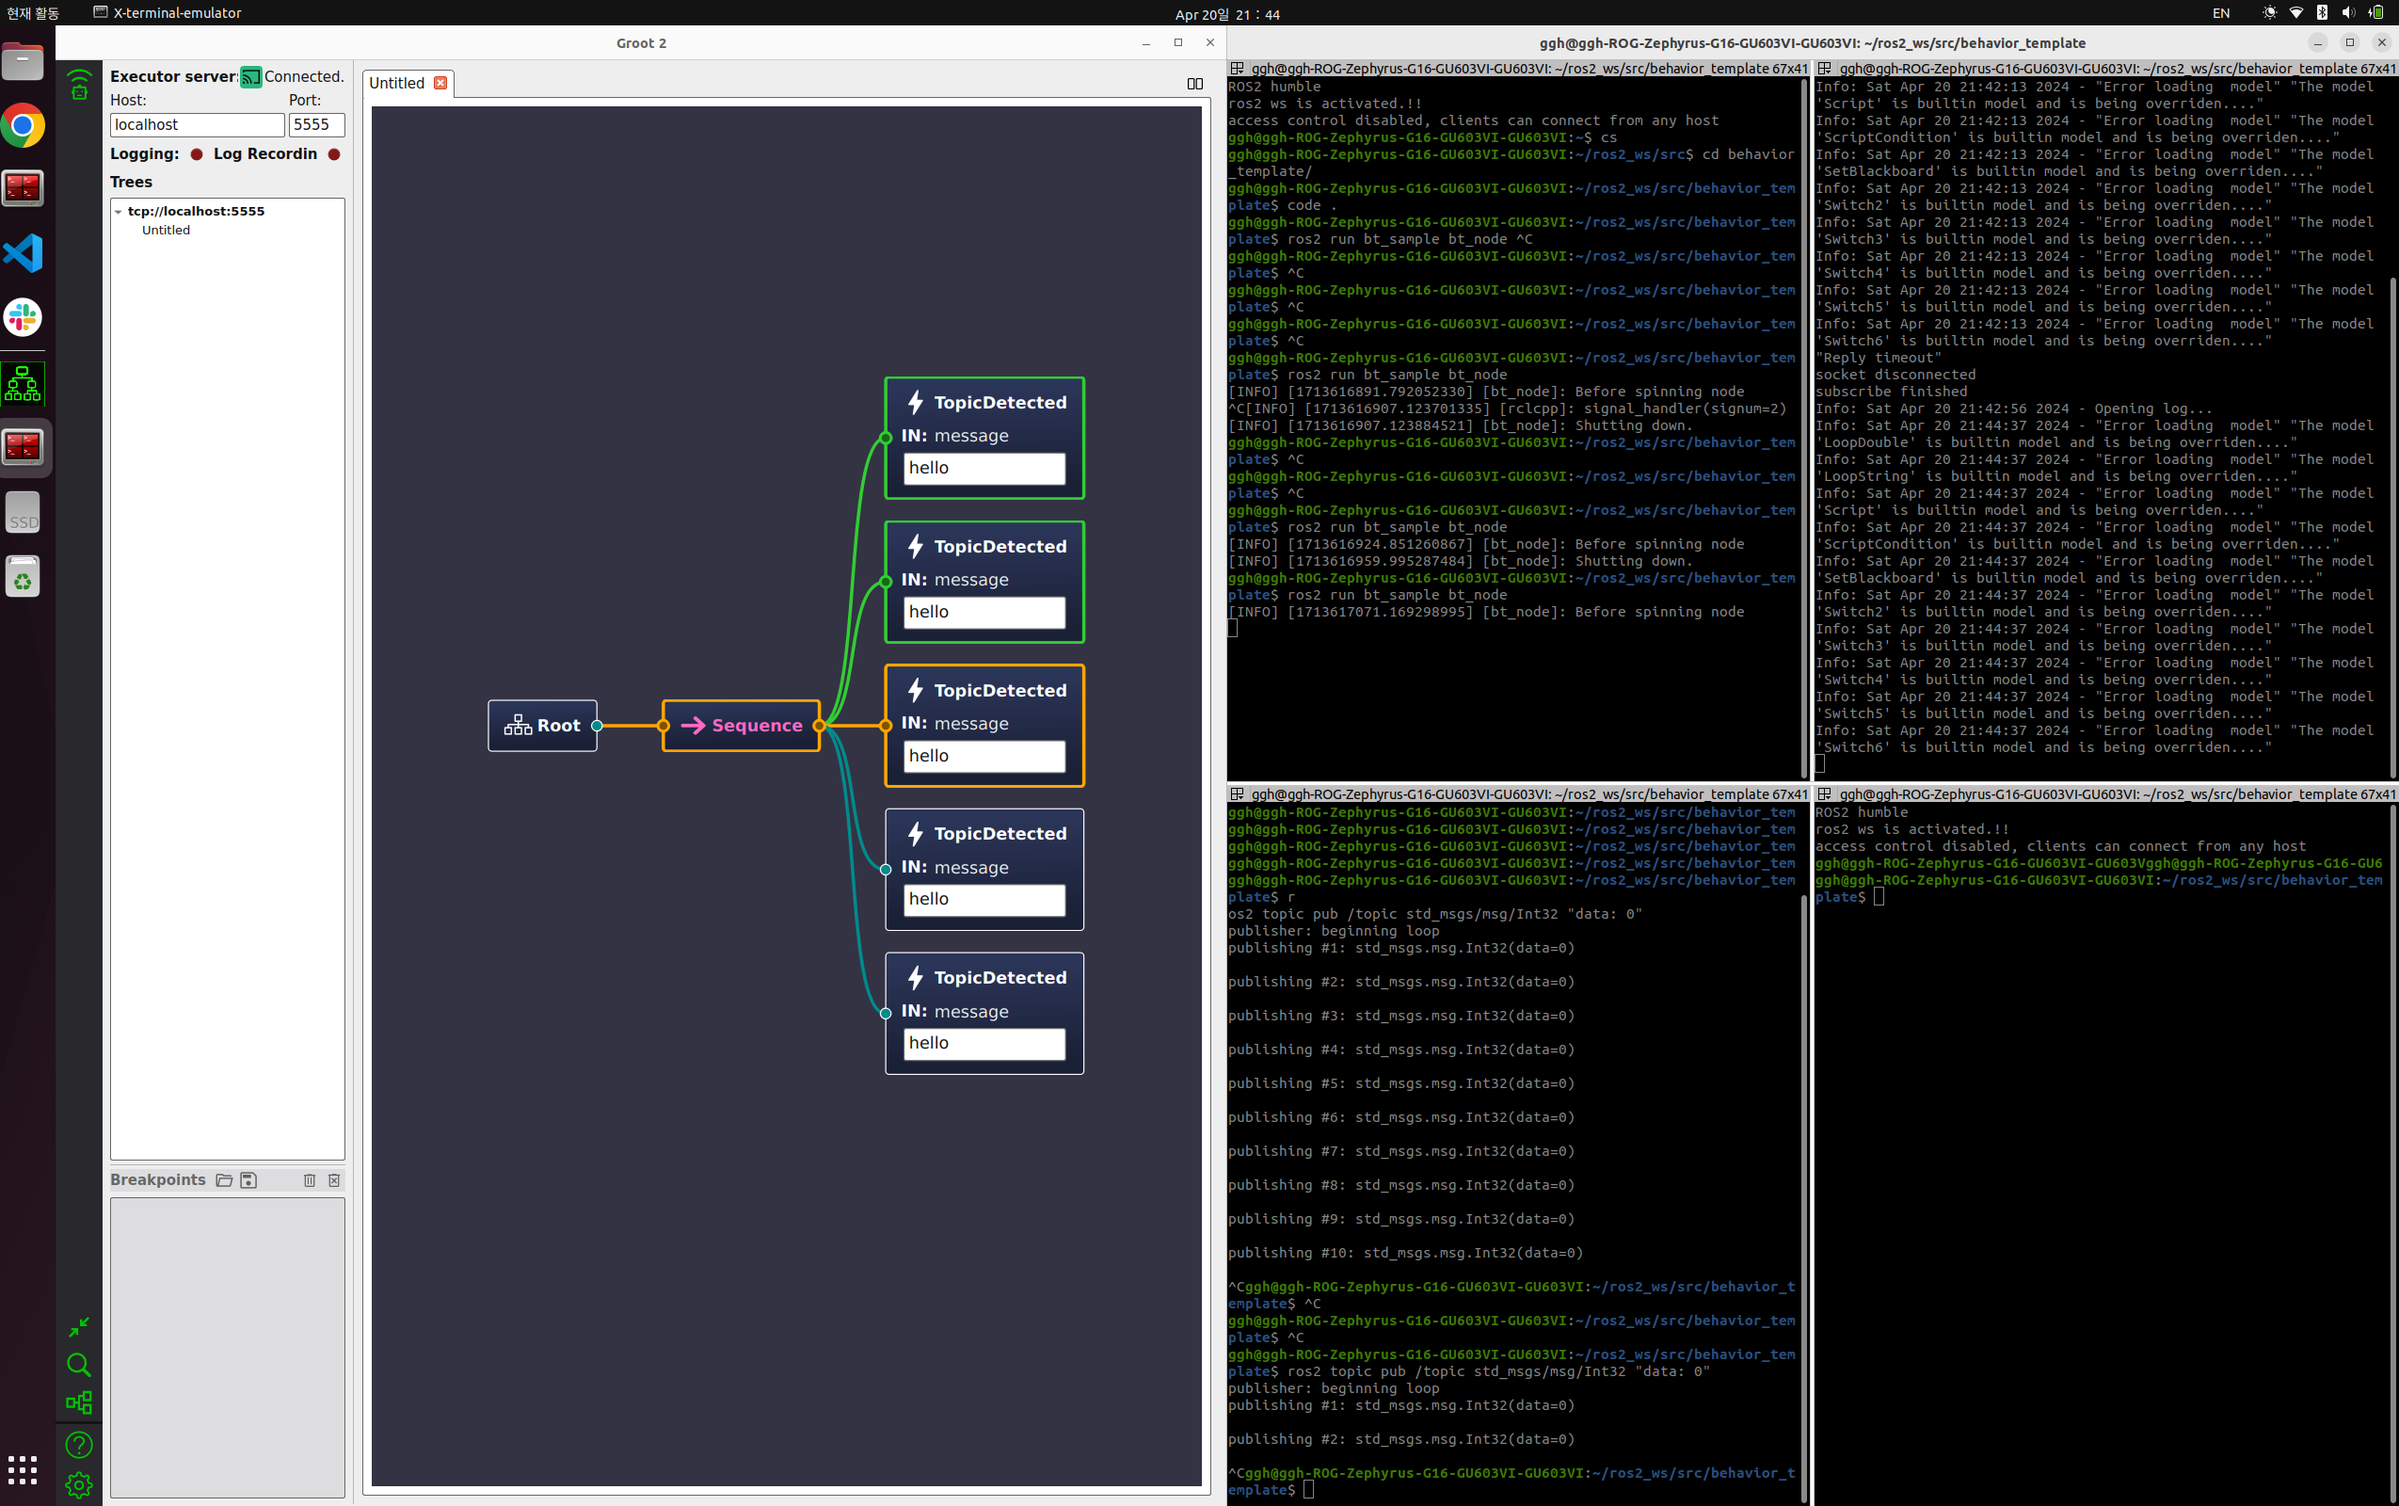
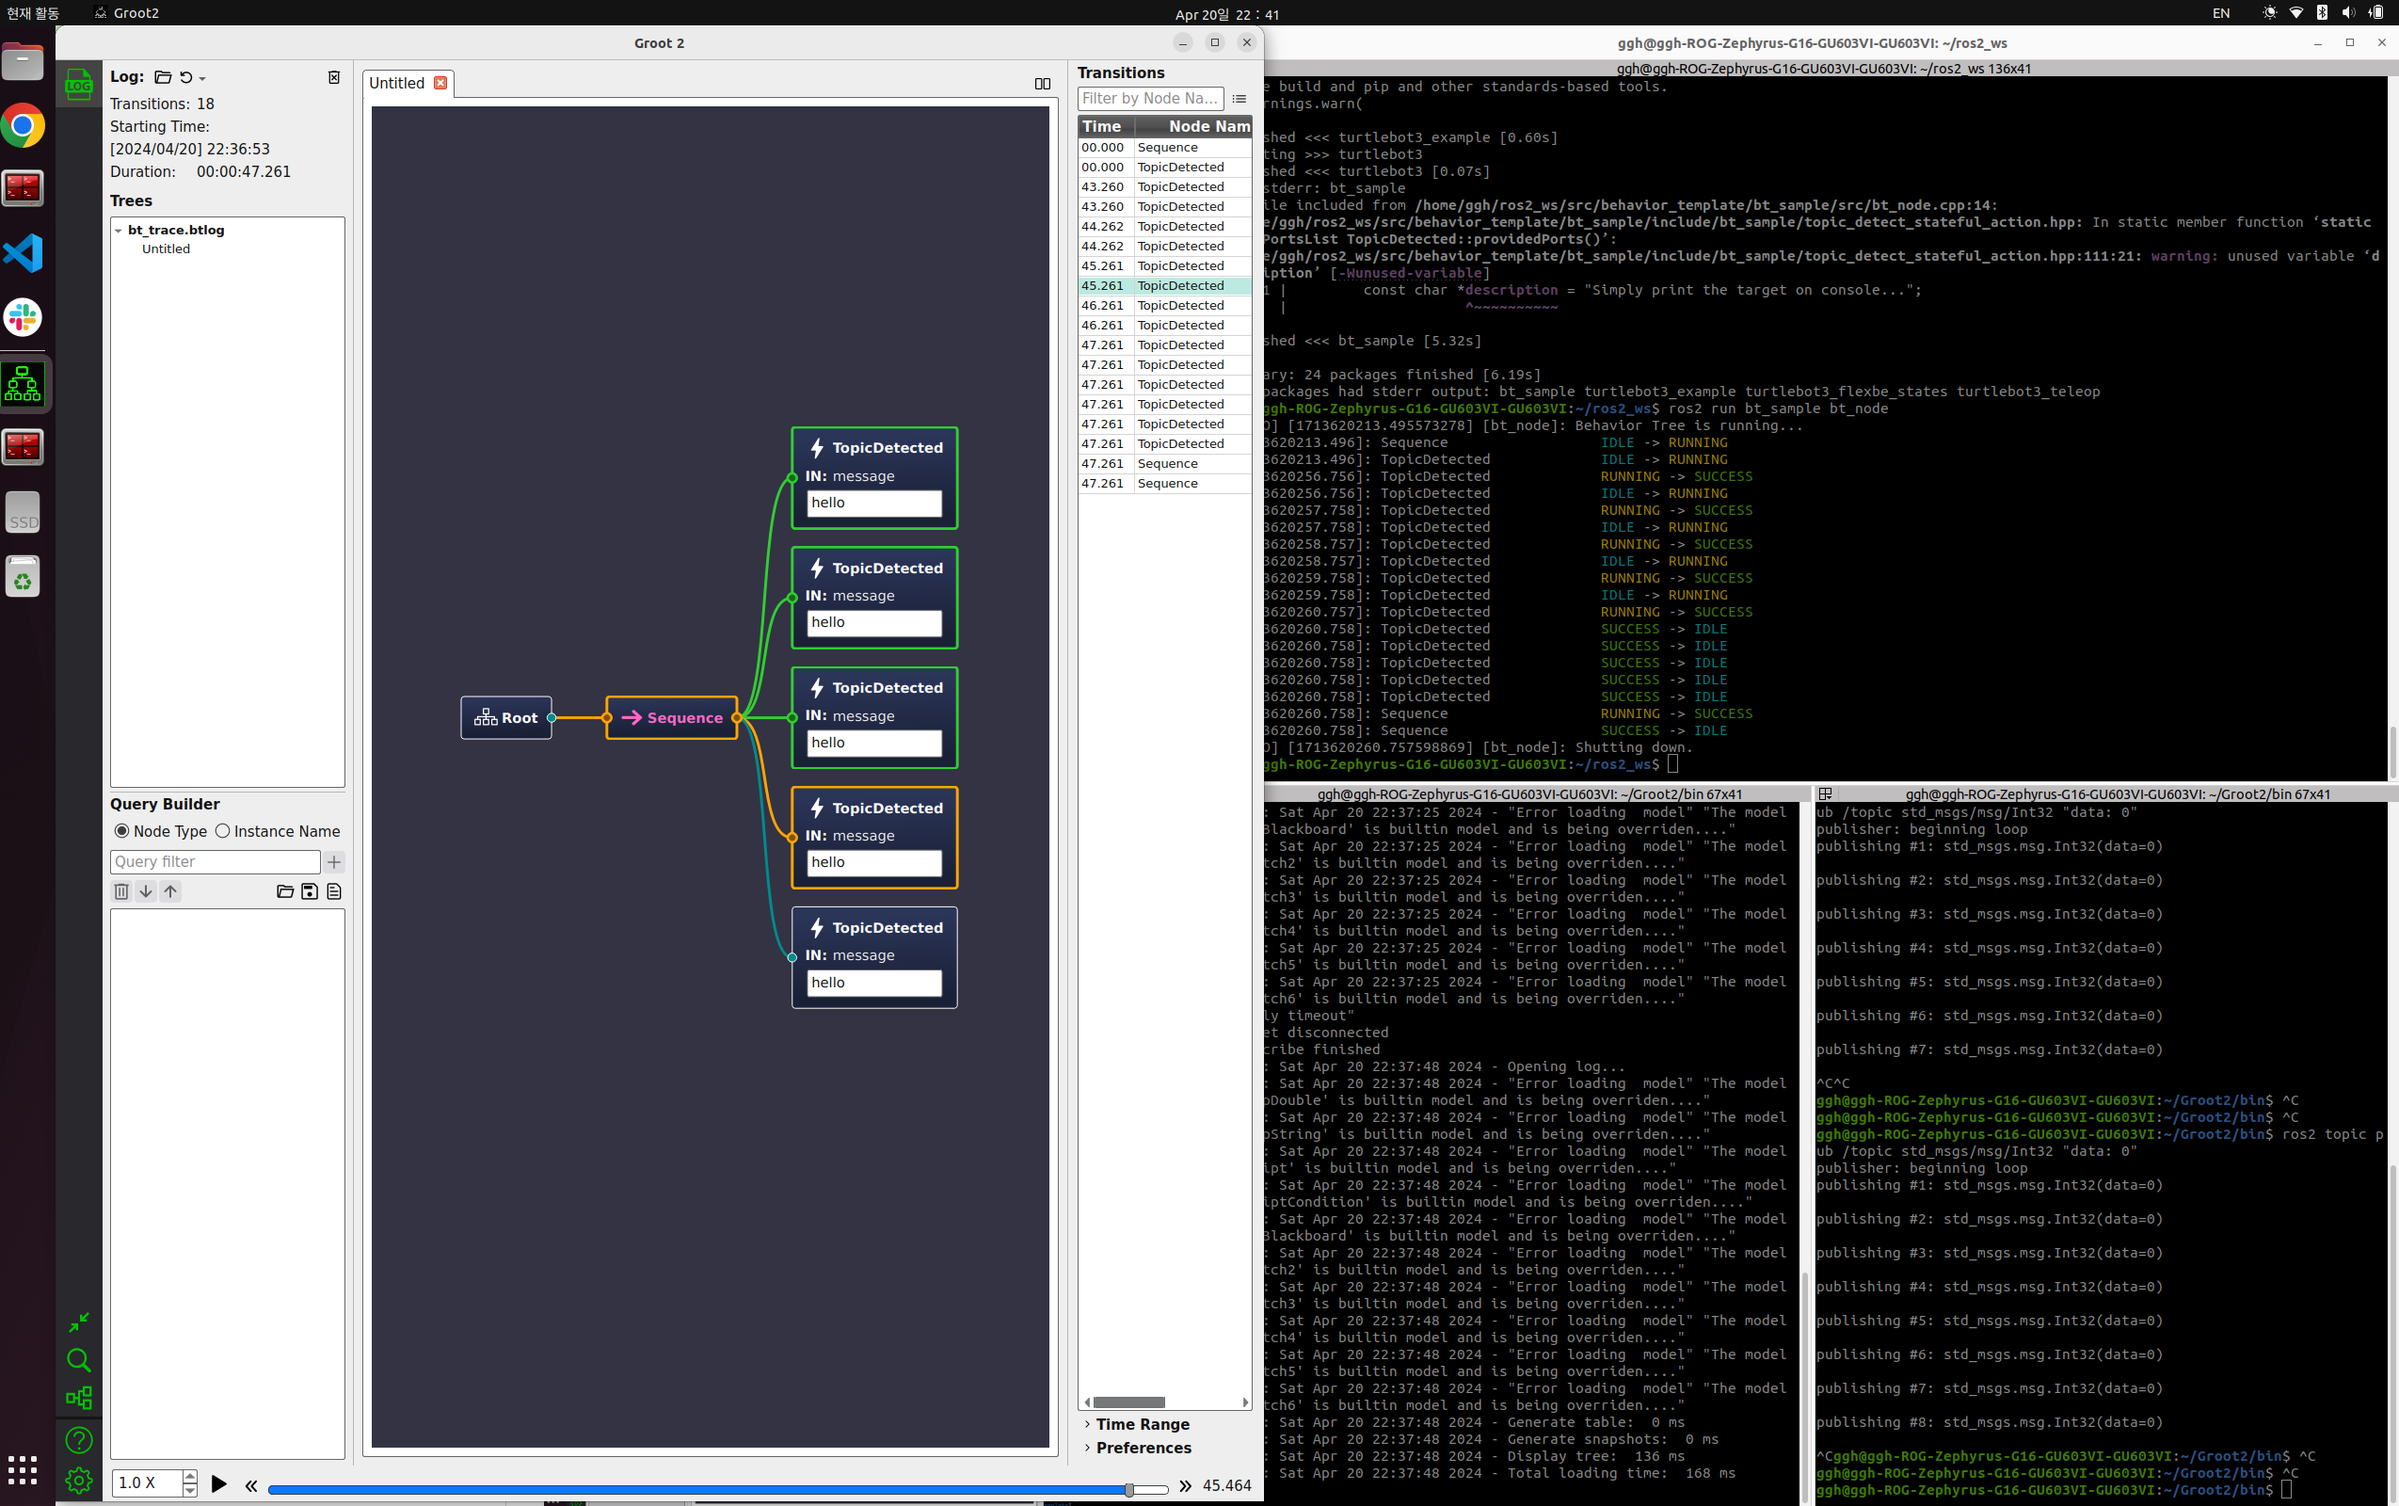
Fix: BT Logger Fixed

diff --git a/bt_sample/src/bt_node.cpp b/bt_sample/src/bt_node.cpp
@@ -13,7 +13,7 @@
 // #include "bt_sample/topic_detect_sync_action.hpp"
 #include "bt_sample/topic_detect_stateful_action.hpp"
 
-// 시간  측정을 위한 헤더 파일
+// 시간 측정을 위한 헤더 파일
 using namespace std::chrono_literals;
 using std::chrono::milliseconds;
 using std::placeholders::_1;
@@ -34,70 +34,47 @@ class BTNode : public rclcpp::Node
   public:
     BTNode() : Node("bt_node")
     {
-        // xml 파일 경로 설정
         this->declare_parameter<std::string>("tree_xml_file", default_bt_xml_file);
         tree_xml_file_ = this->get_parameter("tree_xml_file").as_string();
         this->declare_parameter<std::string>("tree_log_file", default_bt_log_file);
         tree_log_file_ = this->get_parameter("tree_log_file").as_string();
     }
+
     void execute()
     {
-        // Behavior Tree 생성
         create_behavior_tree();
 
-        // Behavior Tree 실행 주기 설정
         const auto timer_period = 500ms;
         timer_ = this->create_wall_timer(timer_period, std::bind(&BTNode::update_behavior_tree, this));
-        RCLCPP_INFO(this->get_logger(), "Before spinning node");
-        // 수정한 부분
-        // rclcpp::spin(shared_from_this());
-        // rclcpp::shutdown();
+        RCLCPP_INFO(this->get_logger(), "Behavior Tree is running...");
     }
+
     void create_behavior_tree()
     {
-        // xml 파일에서 Behavior Tree 로드
         BT::BehaviorTreeFactory factory;
         factory.registerNodeType<TopicDetected>("TopicDetected", shared_from_this());
 
-        // callback 함수 활성화를 위해 노드 설정
-        // BT::NodeConfiguration con = {};
-        // auto lc_topic_detected_state = std::make_shared<TopicDetected>("lc_topic_detected_state", con);
-
         auto blackboard = BT::Blackboard::create();
-        // blackboard->set<std::string>("location_file", location_file_);
         tree_ = factory.createTreeFromFile(tree_xml_file_, blackboard);
 
         // Set up tree logging to monitor the tree in Groot2.
-        // Default ports (1666/1667) are used by the Nav2 behavior tree, so we use another port.
-        // NOTE: You must have the PRO version of Groot2 to view live tree updates.
         publisher_ptr_ = std::make_unique<BT::Groot2Publisher>(tree_, 5555);
-        // bt file logger
-        BT::FileLogger2 logger_file(tree_, tree_log_file_);
-        // bt cout logger
-        BT::StdCoutLogger logger_cout(tree_);
+        // Logger의 생명주기를 관리하기 위해 클래스 멤버로 선언
+        logger_file_ = std::make_unique<BT::FileLogger2>(tree_, tree_log_file_);
+        logger_cout_ = std::make_unique<BT::StdCoutLogger>(tree_);
     }
+
     void update_behavior_tree()
     {
-        // Tick the behavior tree.
         BT::NodeStatus tree_status = tree_.tickOnce();
-
-        // Check the status of the tree.
-        if (tree_status == BT::NodeStatus::RUNNING)
+        if (tree_status != BT::NodeStatus::RUNNING)
         {
-            return;
-        }
-        // Cancel the timer if we hit a terminal state.
-        if (tree_status == BT::NodeStatus::SUCCESS)
-        {
-            RCLCPP_INFO(this->get_logger(), "Finished with status SUCCESS");
-            timer_->cancel();
-        }
-        else if (tree_status == BT::NodeStatus::FAILURE)
-        {
-            RCLCPP_INFO(this->get_logger(), "Finished with status FAILURE");
+            RCLCPP_INFO(this->get_logger(), "Behavior Tree finished with status: %s",
+                        tree_status == BT::NodeStatus::SUCCESS ? "SUCCESS" : "FAILURE");
             timer_->cancel();
         }
     }
+
     // Configuration parameters.
     std::string tree_xml_file_;
     std::string tree_log_file_;
@@ -106,6 +83,8 @@ class BTNode : public rclcpp::Node
     rclcpp::TimerBase::SharedPtr timer_;
     BT::Tree tree_;
     std::unique_ptr<BT::Groot2Publisher> publisher_ptr_;
+    std::unique_ptr<BT::FileLogger2> logger_file_;
+    std::unique_ptr<BT::StdCoutLogger> logger_cout_;
 };
 
 int main(int argc, char **argv)
@@ -120,6 +99,5 @@ int main(int argc, char **argv)
     }
     RCLCPP_INFO(node->get_logger(), "Shutting down.");
     rclcpp::shutdown();
-
     return 0;
 }
